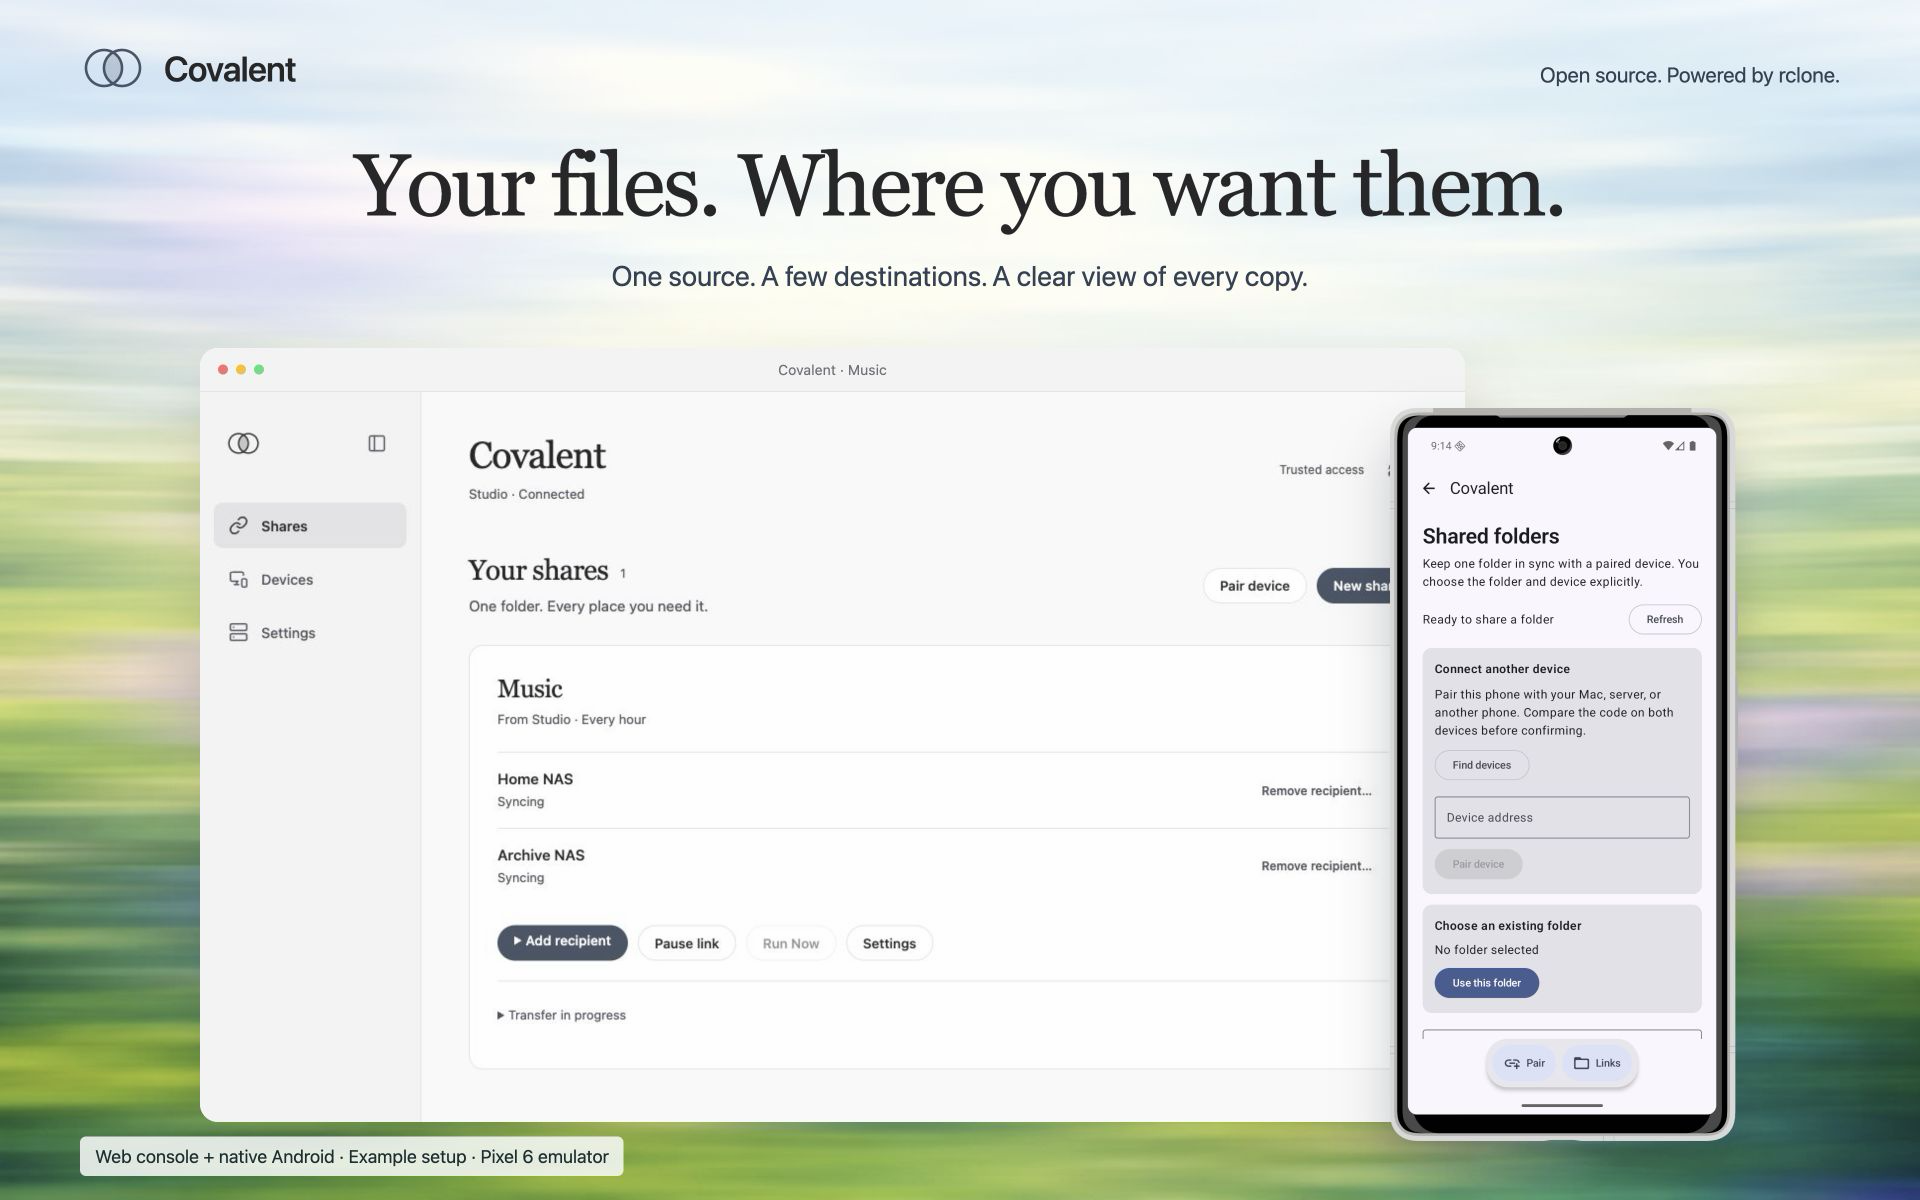
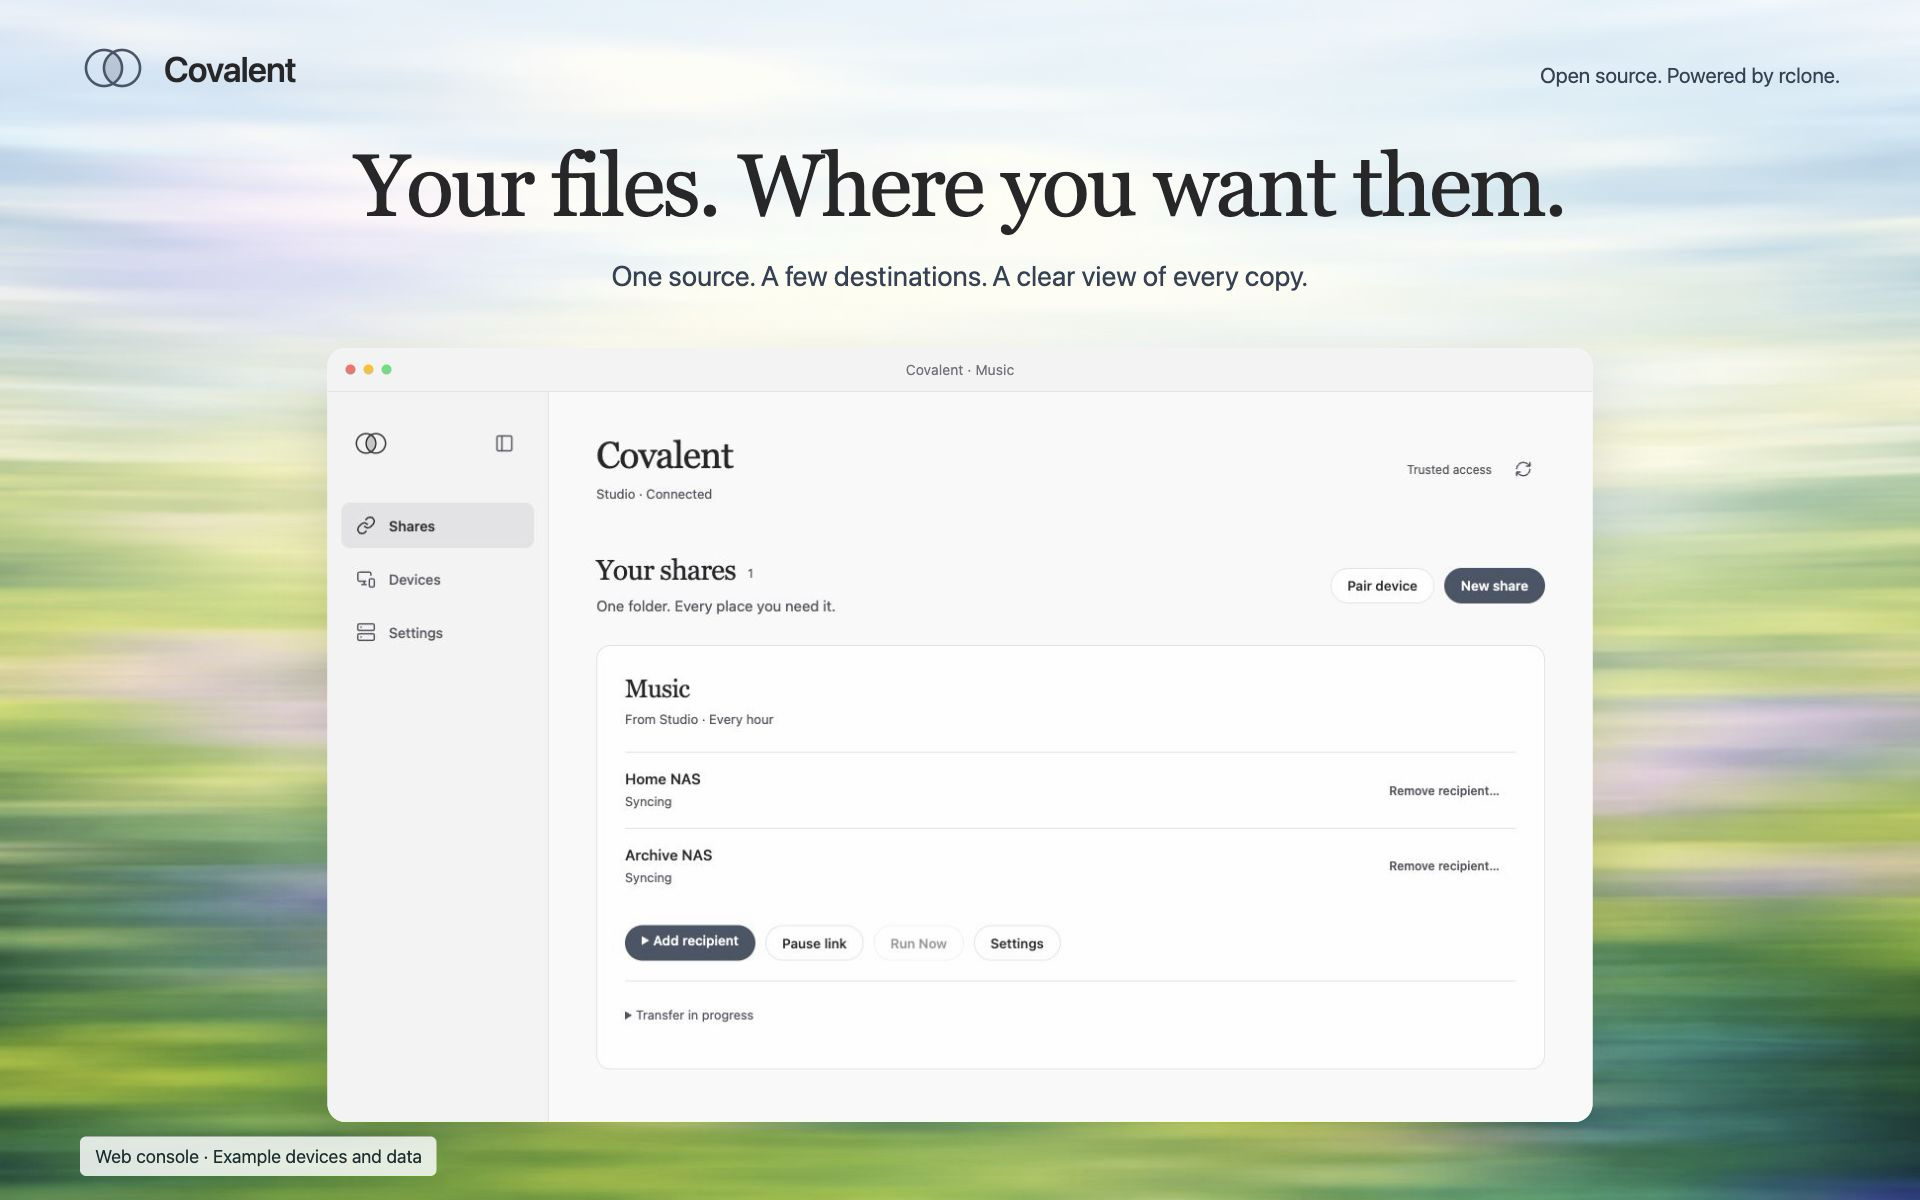
docs: remove phone from main preview image

diff --git a/docs/website/mockups/previews.css b/docs/website/mockups/previews.css
@@ -7,7 +7,7 @@
 .browser,.focus-window{background:#fff;overflow:hidden;border-radius:18px;box-shadow:var(--shadow)}.chrome{height:44px;position:relative;display:flex;align-items:center;justify-content:center;background:#f4f4f5;border-bottom:1px solid #e4e4e7;color:#71717a;font-size:14px;letter-spacing:.01em}.traffic{position:absolute;left:18px;display:flex;gap:8px}.traffic i{width:10px;height:10px;border-radius:50%;background:#f87171}.traffic i:nth-child(2){background:#fbbf24}.traffic i:nth-child(3){background:#4ade80}.browser>img{display:block;width:100%}
 .artboard::before{content:"";position:absolute;inset:0;z-index:-1;background:linear-gradient(180deg,#ffffffbd 0%,#ffffff85 30%,#ffffff10 80%),url("assets/motion-meadow.webp") center/cover no-repeat}.dark::before{background:linear-gradient(180deg,#0f172aeb,#0f172a9e),url("assets/motion-meadow.webp") center/cover no-repeat}.disclosure{color:#182f32;background:#f8fafadb;padding:9px 15px;border-radius:6px}.dark .disclosure{background:#0f172ad9;color:#f1f5f9}
 .pixel{position:absolute;aspect-ratio:1216/2562;filter:drop-shadow(0 28px 26px #0f172a38)}.pixel>img{position:absolute;display:block;max-width:none}.pixel-back,.pixel-front{inset:0;width:100%;height:100%}.pixel-back{z-index:0}.pixel-screen{left:5.0986842105%;top:2.6932084309%;width:88.8157894737%;height:93.6768149883%;z-index:1}.pixel-front{z-index:2}
-.hero{width:1920px;height:1200px;background:#e1ecda}.hero .brand{left:80px;top:44px}.platform-note{position:absolute;right:80px;top:62px;font-size:21px;color:#334155}.hero h2{position:absolute;top:138px;width:100%;text-align:center;font-size:88px}.hero .lead{position:absolute;top:255px;width:100%;text-align:center;font-size:28px;color:#334155}.hero-desktop{position:absolute;width:1265px;height:774px;left:200px;top:348px}.hero-desktop img{width:1265px}.hero-phone{width:348px;left:1390px;top:408px}.hero .disclosure{left:80px;bottom:24px;font-size:18px}
+.hero{width:1920px;height:1200px;background:#e1ecda}.hero .brand{left:80px;top:44px}.platform-note{position:absolute;right:80px;top:62px;font-size:21px;color:#334155}.hero h2{position:absolute;top:138px;width:100%;text-align:center;font-size:88px}.hero .lead{position:absolute;top:255px;width:100%;text-align:center;font-size:28px;color:#334155}.hero-desktop{position:absolute;width:1265px;height:774px;left:327.5px;top:348px}.hero-desktop img{width:1265px}.hero .disclosure{left:80px;bottom:24px;font-size:18px}
 .portrait{width:1080px;height:1920px}.portrait h2{position:absolute;left:72px;top:205px;font-size:94px;line-height:1.12}.portrait .lead{position:absolute;left:76px;top:458px;font-size:32px;line-height:1.5}.portrait .support{position:absolute;left:76px;font-size:35px;line-height:1.45;color:#475569}.portrait .disclosure{font-size:21px}.portrait .chrome{height:54px;font-size:19px}.portrait .traffic{left:22px;gap:10px}.portrait .traffic i{width:13px;height:13px}
 .destinations{background:#ecf3dd}.portrait-phone{left:260px;top:615px;width:560px}.portrait .lead,.portrait .support{color:#334155}.portrait.dark .lead,.portrait.dark .support{color:#f1f5f9}.portrait .support{background:#f8fafae0;padding:18px 22px;margin-left:-22px;border-radius:10px}.portrait.dark .support{background:#0f172ad9}
 .dark{background:#1e293b;color:#f8fafc}.dark .lead,.dark .support{color:#cbd5e1}.dark .disclosure{color:#cbd5e1}.focus-window{position:absolute;left:72px;width:936px}.recipient-window{top:640px}.recipient-crop{position:relative;height:815px;overflow:hidden;background:#fff}.recipient-crop img{position:absolute;width:1792px;max-width:none;left:-390px;top:-380px}.recipient .support{top:1600px}

diff --git a/docs/website/mockups/index.html b/docs/website/mockups/index.html
@@ -19,8 +19,7 @@
     <h2>Your files. Where you want them.</h2>
     <p class="lead">One source. A few destinations. A clear view of every copy.</p>
     <div class="browser hero-desktop"><div class="chrome"><span class="traffic"><i></i><i></i><i></i></span><span>Covalent · Music</span></div><img src="captures/overview-active.png" alt="Music sharing from Studio to Home NAS and Archive NAS, with both recipients syncing."></div>
-    <div class="pixel hero-phone"><img class="pixel-back" src="assets/pixel-6-back.png" alt=""><img class="pixel-screen" src="captures/android-pixel-6.png" alt="The native Covalent Android app, on its Shared folders setup screen."><img class="pixel-front" src="assets/pixel-6-front.png" alt=""></div>
-    <div class="disclosure">Web console + native Android · Example setup · Pixel 6 emulator</div>
+    <div class="disclosure">Web console · Example devices and data</div>
   </section>
 </template>
 <template id="destinations">
@@ -64,7 +63,7 @@
 </template>
 <script>
 const previews = [
-  { id: 'hero', file: '01-desktop-and-phone', width: 1920, height: 1200, title: 'Desktop and phone hero' },
+  { id: 'hero', file: '01-desktop-and-phone', width: 1920, height: 1200, title: 'Desktop hero' },
   { id: 'destinations', file: '02-native-android', width: 1080, height: 1920, title: 'Native Android on Google Pixel 6' },
   { id: 'recipient', file: '03-add-a-recipient', width: 1080, height: 1920, title: 'Add a recipient' },
   { id: 'settings', file: '04-shared-settings', width: 1080, height: 1920, title: 'Shared timing and deletion choices' },

diff --git a/docs/website/index.html b/docs/website/index.html
@@ -21,7 +21,7 @@
 </header>
 <main>
   <h2>Product previews</h2>
-  <figure><a href="mockups/index.html"><img src="mockups/exports/01-desktop-and-phone.webp" width="1920" height="1200" alt="Covalent web console and native Android app in a Google Pixel 6 frame over a colorful motion-blurred background."></a><figcaption><a href="mockups/index.html">View the five-piece preview set</a>. Includes editable layouts and PNG/WebP exports, with an actual native Android screenshot in Google's Pixel 6 frame.</figcaption></figure>
+  <figure><a href="mockups/index.html"><img src="mockups/exports/01-desktop-and-phone.webp" width="1920" height="1200" alt="Covalent's desktop web console centered over a colorful motion-blurred background."></a><figcaption><a href="mockups/index.html">View the five-piece preview set</a>. Includes a desktop hero, feature portraits, editable layouts, and PNG/WebP exports.</figcaption></figure>
   <h2>One share, several recipients</h2>
   <figure><a href="screenshots/01-share-overview.jpg"><img src="screenshots/01-share-overview.jpg" width="1280" height="807" alt="Covalent Music share from Studio to Home NAS and Archive NAS, scheduled hourly."></a><figcaption>Lead image. Current server interface with example devices and data.</figcaption></figure>
   <h2>Shared timing and clear deletion choices</h2>

diff --git a/.impeccable/surfaces/docs-website-mockups.md b/.impeccable/surfaces/docs-website-mockups.md
@@ -2,7 +2,7 @@
 
 Mode: Persuade. Extend the established Covalent visual identity for website and carousel graphics.
 
-Use the supplied store-preview reference's short headline, desktop window, overlapping phone, and generous background space. Preserve Georgia headings, system sans-serif labels, and the overlapping-circle mark. The user's revision adds a colorful, strongly motion-blurred photographic background. Use Google's actual Pixel 6 artwork and a native Android screenshot, preserving its 1080 × 2400 proportions and interface pixels.
+Use the supplied store-preview reference's short headline, centered desktop window, and generous background space. The main hero has no phone, following the user's latest revision. Preserve Georgia headings, system sans-serif labels, the overlapping-circle mark, and the colorful, strongly motion-blurred photographic background. The separate Android portrait uses Google's actual Pixel 6 artwork and a native Android screenshot, preserving its 1080 × 2400 proportions and interface pixels.
 
 Deliver one 1920 × 1200 hero and four 1080 × 1920 feature portraits. Desktop screenshots show the web console with synthetic example data. The phone shows the released Android app's setup screen on a Pixel 6 emulator. Label the surfaces accurately; do not imply an iOS app, store listing, or measured transfer result. No production settings or data are involved.
 

diff --git a/docs/website/mockups/README.md b/docs/website/mockups/README.md
@@ -1,12 +1,12 @@
 # Covalent product preview pack
 
-Five finished promotional compositions inspired by app-store previews: one desktop-and-phone hero and four feature portraits. These are website and social assets, not store submission files or evidence of store availability.
+Five finished promotional compositions inspired by app-store previews: one desktop hero and four feature portraits. These are website and social assets, not store submission files or evidence of store availability.
 
 Open `index.html` to view the set locally. The layouts work offline with the included image assets. PNG files are the masters; WebP files are smaller website versions. Use the supplied dimensions and alt text in `manifest.json`.
 
 | Asset | Dimensions | Use |
 | --- | --- | --- |
-| `exports/01-desktop-and-phone` | 1920 × 1200 | Project hero; desktop and phone composition |
+| `exports/01-desktop-and-phone` | 1920 × 1200 | Project hero; desktop-only composition (existing filename retained) |
 | `exports/02-native-android` | 1080 × 1920 | Portrait feature: native Android folder setup on Pixel 6 |
 | `exports/03-add-a-recipient` | 1080 × 1920 | Portrait feature: extend an existing share |
 | `exports/04-shared-settings` | 1080 × 1920 | Portrait feature: timing and deletion choices |
